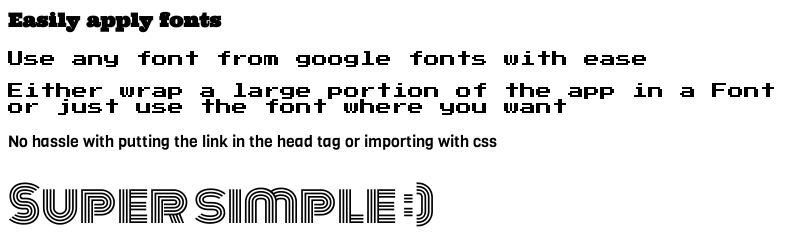
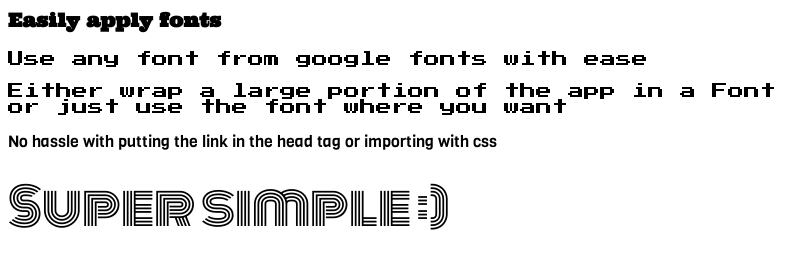
Updated Readme

diff --git a/README.md b/README.md
@@ -39,7 +39,7 @@ const Example = () => {
           <p>Either wrap a large portion of the app in a Font or just use the font where you want</p>
         </Font>
         <p>No hassle with putting the link in the head tag or importing with css</p>
-        <Text family='Monoton' style={{ fontSize: 48, margin: 0 }}>
+        <Text family='Monoton' style={{ fontSize: 50, margin: 0 }}>
           Super simple :)
         </Text>
       </Font>
